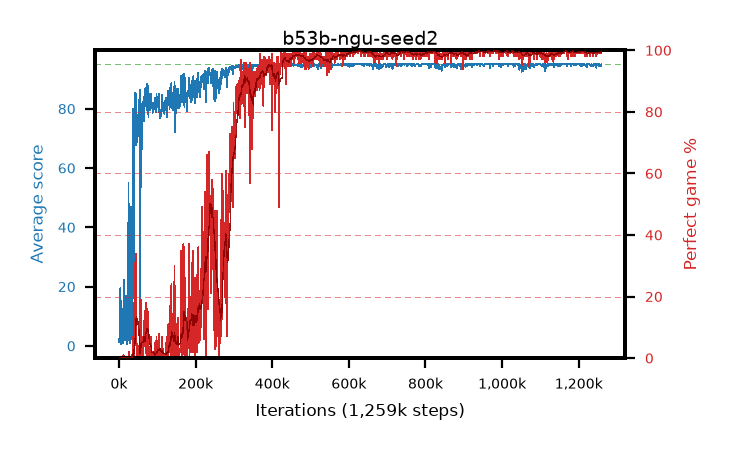
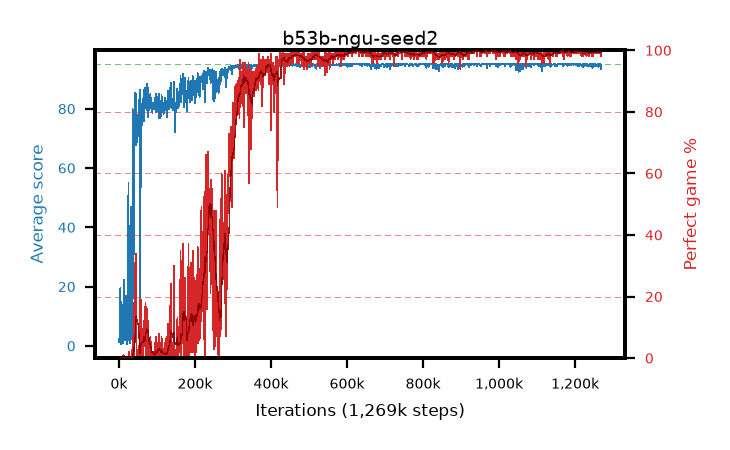
live pictures of 4 arm(s)

diff --git a/results/b53b-ngu-seed2/b53b-ngu-seed2.md b/results/b53b-ngu-seed2/b53b-ngu-seed2.md
@@ -1,6 +1,6 @@
 # b53b-ngu-seed2
 
-step **1,259,000** · 1259 evals · trailing **94.72** · peak **94.96** @1,028,000 · sef **75.2** · best30 **99.8** @983,000
+step **1,269,000** · 1269 evals · trailing **94.69** · peak **94.96** @1,028,000 · sef **75.4** · best30 **99.8** @983,000
 
 ## Config
 
@@ -80,15 +80,15 @@ step **1,259,000** · 1259 evals · trailing **94.72** · peak **94.96** @1,028,
 | 2000 | 6.04 | 3.73 | 0.0 | 19.0 | 3.28 | 0.0 | 0.4 |
 | 3000 | 18.06 | 8.5 | 1.0 | 40.0 | 15.298 | 0.0 | 0.4 |
 | ... | ... | ... | ... | ... | ... | ... | ... |
-| 1248000 | 94.82 | 94.76 | 77.0 | 95.0 | 192.493 | 99.0 | 0.4 |
-| 1249000 | 94.71 | 94.76 | 66.0 | 95.0 | 192.391 | 99.0 | 0.4 |
-| 1250000 | 95.0 | 94.76 | 95.0 | 95.0 | 193.709 | 100.0 | 0.4 |
-| 1251000 | 95.0 | 94.78 | 95.0 | 95.0 | 193.708 | 100.0 | 0.4 |
-| 1252000 | 94.26 | 94.79 | 21.0 | 95.0 | 191.926 | 99.0 | 0.4 |
-| 1253000 | 95.0 | 94.79 | 95.0 | 95.0 | 193.719 | 100.0 | 0.4 |
-| 1254000 | 95.0 | 94.79 | 95.0 | 95.0 | 193.706 | 100.0 | 0.4 |
-| 1255000 | 94.25 | 94.76 | 20.0 | 95.0 | 191.921 | 99.0 | 0.4 |
-| 1256000 | 94.33 | 94.74 | 28.0 | 95.0 | 192.0 | 99.0 | 0.4 |
-| 1257000 | 94.3 | 94.72 | 25.0 | 95.0 | 191.975 | 99.0 | 0.4 |
 | 1258000 | 94.85 | 94.71 | 80.0 | 95.0 | 192.529 | 99.0 | 0.4 |
 | 1259000 | 95.0 | 94.72 | 95.0 | 95.0 | 193.706 | 100.0 | 0.4 |
+| 1260000 | 95.0 | 94.73 | 95.0 | 95.0 | 193.704 | 100.0 | 0.4 |
+| 1261000 | 94.95 | 94.73 | 90.0 | 95.0 | 192.635 | 99.0 | 0.4 |
+| 1262000 | 94.22 | 94.72 | 17.0 | 95.0 | 191.906 | 99.0 | 0.4 |
+| 1263000 | 94.29 | 94.7 | 24.0 | 95.0 | 191.953 | 99.0 | 0.4 |
+| 1264000 | 94.28 | 94.68 | 23.0 | 95.0 | 191.954 | 99.0 | 0.4 |
+| 1265000 | 95.0 | 94.69 | 95.0 | 95.0 | 193.706 | 100.0 | 0.4 |
+| 1266000 | 95.0 | 94.71 | 95.0 | 95.0 | 193.72 | 100.0 | 0.4 |
+| 1267000 | 94.97 | 94.72 | 92.0 | 95.0 | 192.643 | 99.0 | 0.4 |
+| 1268000 | 93.52 | 94.67 | 20.0 | 95.0 | 190.155 | 98.0 | 0.4 |
+| 1269000 | 94.95 | 94.69 | 90.0 | 95.0 | 192.672 | 99.0 | 0.4 |
